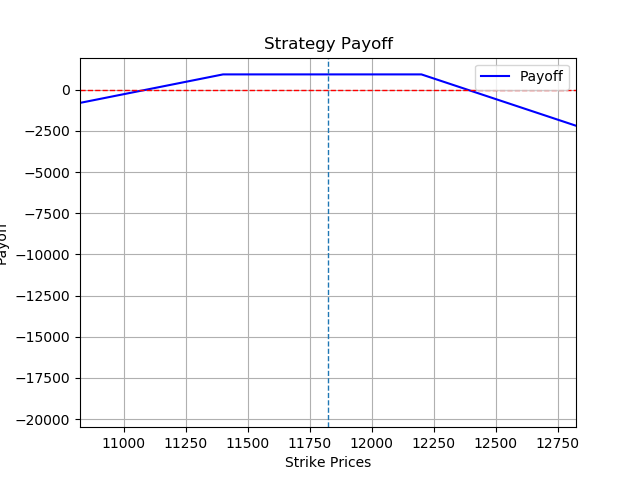
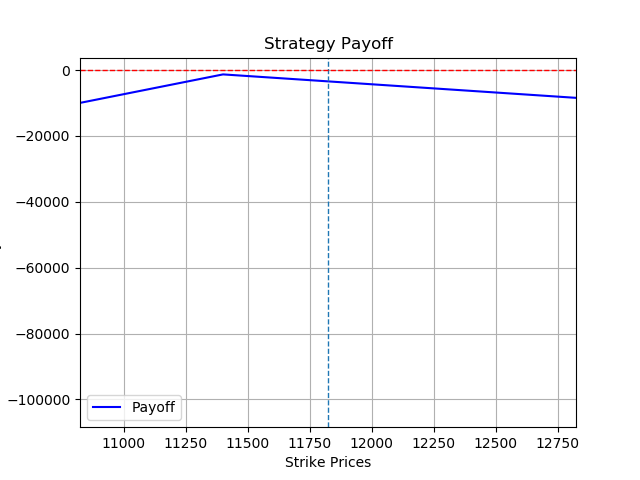
'good'

diff --git a/nse/bin/options/nifty-option_chain.py b/nse/bin/options/nifty-option_chain.py
@@ -6,8 +6,10 @@ import pandas as pd
 from PyQt4 import QtCore, QtGui
 import sys
 import datetime as dt
+import matplotlib
+#matplotlib.use('gtkagg')
 import matplotlib.pyplot as plt
-
+from matplotlib.widgets import Cursor
 
 
 # Constants
@@ -19,7 +21,7 @@ ir = 7.0
 lotsize = 75
 today = dt.datetime.now().date()
 end = dt.date(2019, 6, 27)
-leg1_strike = 12200
+leg1_strike = 11400
 leg2_strike = 11400
 leg3_strike = None
 leg4_strike = None
@@ -31,7 +33,7 @@ leg4_premium = 0.0
 
 num_lots_futures = 1.0
 num_lots_leg1 = 5.0
-num_lots_leg2 = 3.0
+num_lots_leg2 = 15.0
 
 Qt = QtCore.Qt
 
@@ -64,6 +66,103 @@ def strangle_payoff(dataFrame):
         dataFrame['leg2Payoff'] = num_lots_leg2 * (dataFrame['leg2_premium'] - dataFrame['leg2_intr_Value'])
     dataFrame['Payoff'] = dataFrame['leg1Payoff'] + dataFrame['leg2Payoff']
     return dataFrame
+
+
+def cross_hair(x, y, ax=None, **kwargs):
+    if ax is None:
+        ax = plt.gca()
+    horiz = ax.axhline(y, **kwargs)
+    vert = ax.axvline(x, **kwargs)
+    return horiz, vert
+
+def payoff(strike_list,*args):
+
+    payoff_list = []
+
+    """
+    list[0] = strike
+    list[1] = premium credit or debit
+    list[2] = call or put
+    list[3] = Long or Short
+    list[4] = size of the trade
+    """
+    def price(list):
+        """ return payoff for each leg of the trade"""
+        if list[2].upper() == 'P':
+            if list[3].upper() == 'L':
+                payoff_leg = [list[4] * (max(0, list[0] - i) - list[1]) for i in strike_list]
+            else:
+                payoff_leg = [list[4] * (list[1] - max(0, list[0] - i)) for i in strike_list]
+        else:
+            if list[3].upper() == 'L':
+                payoff_leg = [list[4] * (max(0, i - list[0]) - list[1]) for i in strike_list]
+            else:
+                payoff_leg = [list[4] * (list[1] - max(0, i - list[0])) for i in strike_list]
+
+        return payoff_leg
+
+    for arg in args:
+        """ Add the payoff of each leg of the trade to a list """
+        payoff_list.append(price(arg))
+
+    payoff = np.sum(payoff_list, axis=0)
+
+    return payoff
+
+
+def get_credit_recvd(*args):
+    """ Get the credit/debit for the strategy """
+    credit = []
+    debit = []
+    for k, arg in enumerate(args):
+        if arg[3].upper() == 'S':
+            credit.append(int(arg[1] * int(arg[4])))
+        else:
+            credit.append(-(int(arg[1] * int(arg[4]))))
+
+    total_credit = np.sum(credit)
+    print('Total Credit: ', total_credit)
+    print('Max profit: ', total_credit * 75)
+
+def get_greeks_strategy(strike_list, *args):
+    """ Get the gamma for each option strike in the chain """
+    theta = []
+    gamma = []
+    delta = []
+    vega = []
+    for k, arg in enumerate(args):
+        index = strike_list.index(args[k][0])
+        if arg[2].upper() == 'P':
+            theta.append(BS([spot, arg[0], ir, dte], volatility=put_iv_list[index]).putTheta)
+            gamma.append(BS([spot, arg[0], ir, dte], volatility=put_iv_list[index]).gamma)
+            delta.append(BS([spot, arg[0], ir, dte], volatility=put_iv_list[index]).putDelta)
+            vega.append(BS([spot, arg[0], ir, dte], volatility=put_iv_list[index]).vega)
+        else:
+            theta.append(BS([spot, arg[0], ir, dte], volatility=call_iv_list[index]).callTheta)
+            gamma.append(BS([spot, arg[0], ir, dte], volatility=call_iv_list[index]).gamma)
+            delta.append(BS([spot, arg[0], ir, dte], volatility=call_iv_list[index]).callDelta)
+            vega.append(BS([spot, arg[0], ir, dte], volatility=call_iv_list[index]).vega)
+
+    snap_theta = np.round(np.sum(theta, axis=0),2)
+    print('Theta: ', snap_theta)
+    print('Vega: ', np.round(np.sum(vega),2))
+    print('Delta: ', np.round(np.sum(delta),2))
+    print('Gamma: ', np.round(np.sum(gamma),2))
+    print('Total Decay:', snap_theta * 75 )
+
+    return None
+
+
+def get_gamma_option_chain(strike_list, **kwargs):
+    """ Get the gamma for each option strike in the chain """
+
+    gamma = []
+    for args in kwargs:
+        for key, value in enumerate(strike_list):
+            vol = call_iv_list if args[2].upper() == 'C' else put_iv_list
+            gamma.append(BS([spot, value, ir, dte], volatility=vol[key]).gamma)
+
+
 
 def butterfly_payoff(dataFrame, strike1, strike1premium, strike2,
                      strike2premium, strike3=None, strike3premium=None,
@@ -387,17 +486,40 @@ def qt_display(dataframe):
     #sys.exit(application.exec_())
 
 
-def plot_payoff(data, x ,y, data_time=None):
-    data.plot(x=x, y=y, color='blue', lw=1.5)
-    #data_time.plot(x=x, y=y, color='red', lw=1.5, style='-')
-    plt.axvline(spot, lw=1.0, linestyle='--', label='Spot')
-    plt.axhline(0, lw=1.0, linestyle='--', color='r')
-    plt.grid(True)
-    plt.xlim(spot-1000, spot+1000)
-    plt.xlabel('Strike Prices')
-    plt.ylabel('Payoff')
-    plt.title('Strategy Payoff')
-    plt.savefig(dir + '/strategy_payoff.png')
+def plot_payoff(payoff):
+    fig = plt.figure(figsize=(10,10))
+    ax1 = fig.add_subplot(2,1,1)
+    ax1.plot(strike_list, payoff, label='Payoff All legs')
+    ax1.legend(fontsize=8)
+    ax1.set_xlabel('Strategy payoff', fontsize=8)
+    #ax.set_xlim(spot-1000, spot+1000)
+    #ax.set_ylim(-500, 500)
+    ax1.axvline(spot, lw=1.0, linestyle='--', label='Spot')
+    ax1.axhline(0, lw=1.0, linestyle='--', color='r')
+    cursor = Cursor(ax1, useblit=True, color='red', linewidth=1.5)
+    ax1.grid(True)
+
+    ax2 = fig.add_subplot(223)
+    ax2.plot(strike_list, call_iv_list, label='Call IV')
+    ax2.legend(fontsize=8)
+    ax2.grid(True)
+
+    ax3 = fig.add_subplot(224)
+    ax3.plot(strike_list, put_iv_list, label='Put IV')
+    ax3.legend(fontsize=8)
+    ax3.grid(True)
+
+    return None
+
+
+def trade_details(*args):
+    _payoff = payoff(strike_list, *args)
+    """
+    qt_display(_calc_dataframe)
+    """
+    plot_payoff(payoff=_payoff)
+    get_greeks_strategy(strike_list, *args)
+    get_credit_recvd(*args)
 
 
 if __name__ == '__main__':
@@ -405,6 +527,7 @@ if __name__ == '__main__':
     dte = get_days_to_expiry(today, end)
     list_expiries = get_expiry_from_option_chain(symbol)
     req_row = get_req_row(symbol, expdate='27JUN2019')
+
 
     strike_list = parse_chain(req_row, 'strike')
     call_iv_list = parse_chain(req_row, 'ivC')
@@ -421,10 +544,13 @@ if __name__ == '__main__':
     put_otm_strikes = get_otm_strikes(strike_list, 'put')
     df = calculate_greeks(strike_list, call_iv_list, put_iv_list)
 
-    _calc_dataframe = strangle_payoff(dataFrame=df)
+    #_calc_dataframe = strangle_payoff(dataFrame=df)
     #_calc_dataframe = butterfly_payoff(df, 12200, 111.4, 11500, 145)
-    qt_display(_calc_dataframe)
-    x = 'strikes'
-    y = 'Payoff'
-    plot_payoff(_calc_dataframe, x=x, y=y)
+
+    leg1 = [11700, 61, 'c', 'S', 4]
+    leg2 = [11900, 73, 'c', 'S', 4]
+    leg3 = [12000, 38.2, 'c', 'S', 4]
+    leg4 = [12100, 17.5, 'c', 'L', 4]
+
+    trade_details(leg1, leg2, leg3)
     plt.show()
